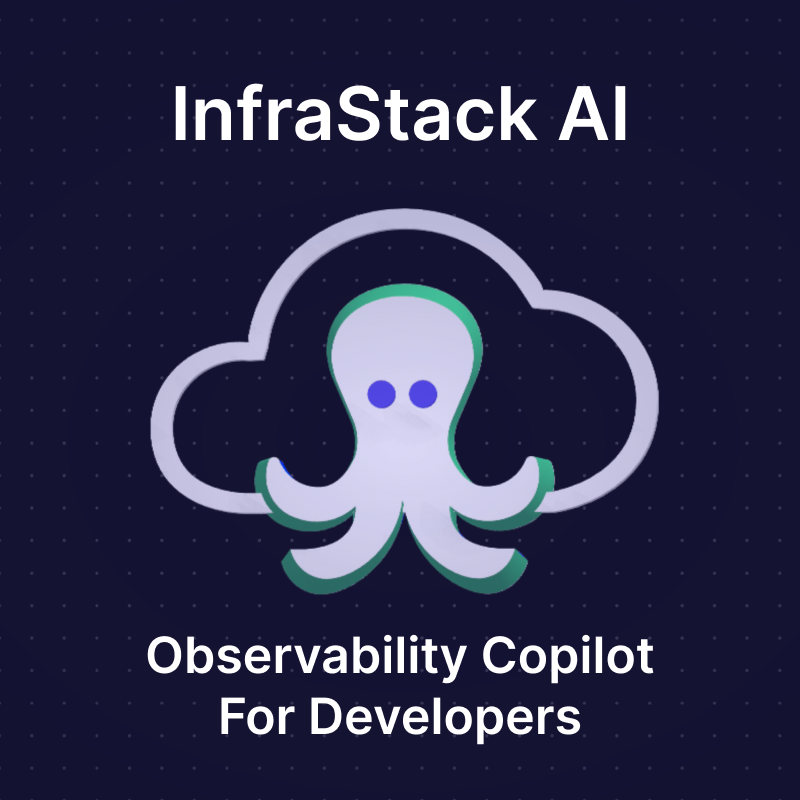
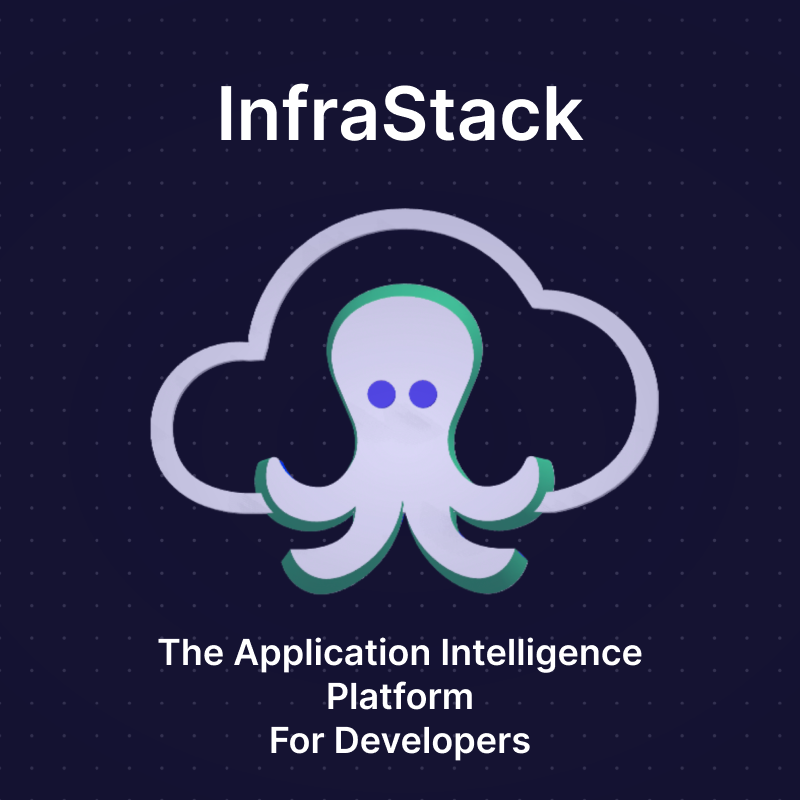
new messaging

Changed region(s): [[0.1875, 0.7812, 0.8125, 0.9688], [0.2188, 0.0938, 0.7812, 0.1875]]

diff --git a/website/app/page.tsx b/website/app/page.tsx
@@ -30,6 +30,8 @@ import { Separator } from "@/components/ui/separator"
 import GetDemoButton from "@/components/get-demo"
 import { use, useEffect, useRef } from "react"
 
+import TypedHeader from "@/components/typed"
+
 
 const customers = [
   // {
@@ -281,13 +283,12 @@ export function register() {
     <div className="container relative">
       <PageHeader className="relative dark:bg-dot-white/[0.2] bg-dot-black/[0.2] rounded-full">
         <div className="absolute pointer-events-none inset-0 flex items-center justify-center dark:bg-zinc-950 bg-white [mask-image:radial-gradient(ellipse_at_center,transparent_1%,#09090b)]"></div>
-        {/* <Announcement /> */}
+        <Announcement />
         {/* <iframe className="bg-transparent h-60" src='https://my.spline.design/untitled-7aa2af24d18f7d296b43cefbb501a930/' frameborder='0' width='100%' height='100%'></iframe>        <Announcement /> */}
         <div className="top-20 blur-3xl bg-indigo-500/30 h-32 w-52 absolute"></div>
-        <PageHeaderHeading className="z-[60] text-zinc-200 mt-4 ">AI-Powered Application Intelligence Platform</PageHeaderHeading>
-        <PageHeaderDescription className="z-[60] text-lg md:text-2xl font-semibold mt-2 text-center text-zinc-200">
-          <p className="hidden md:block ">Understand Application Behaviors & User Journeys Instantly.</p>
-          <p className="md:hidden">Understand Application Behaviors & User Journeys Instantly.</p>
+        <PageHeaderHeading className="z-[60] text-zinc-200 mt-4 ">InfraStack is <br/>Datadog + PostHog + GPT <br/> for <TypedHeader /> Developers</PageHeaderHeading>
+        <PageHeaderDescription className="z-[60] text-lg md:text-2xl font-semibold mt-2 text-center text-zinc-400">
+          <p className="hidden md:block ">A real-time view of application insights and user behavior, intelligently corralated, beautifully visualized.</p>
         </PageHeaderDescription>
         <PageActions className="mt-2 items-start">
           {/* <Link href="/docs" className={cn(buttonVariants())}>
@@ -313,7 +314,7 @@ export function register() {
               variant={"outline"}
               className={cn("text-white dark:hover:bg-indigo-800 bg-indigo-600 dark:md:text-lg border-zinc-800 dark:border-[1px] dark:border-solid z-50 h-[56px] w-[180px] md:w-[220px] rounded-lg")}
             >Get Started Free</Button>
-            <p className="text-muted-foreground text-sm">No credit card required</p>
+            <p className="text-muted-foreground text-zinc-300">No credit card required</p>
           </Link>
           {/* <Link
             target="_blank"
@@ -361,7 +362,7 @@ export function register() {
             {/* <div className=" shadow-inner rounded-xl px-4 text-center p-2 pl-4 pr-4 text-2xl"><span className="text-green-400 text-4xl font-bold">200M+ <BarChart4 className="h-10 w-10 inline" /></span><br></br>Traces Proceessed</div>
             <div className=" shadow-inner rounded-xl px-4 text-center p-2 pl-4 pr-4 text-2xl"><span className="text-green-400 text-4xl font-bold">1K+ Human Hours <Sparkles className="h-10 w-10 inline" /></span><br></br>Saved by InfraStack AI Copilots</div> */}
             {/* <div className="text text-3xl md:text-5xl p-2 mt- font-bold bg-gradient-to-r from-[#5865F2] to-green-400 inline-block text-transparent bg-clip-text z-[60]">Loved By Next-Gen Developers</div> */}
-            <div className="text text-[26px] md:text-5xl p-2 mt- font-semibold bg-gradient-to-r from-[#5865F2] to-green-400 inline-block text-transparent bg-clip-text z-[60]">Loved By Modern Teams <br></br>and Developers</div>
+            <div className="text text-[26px] md:text-5xl p-2 mt- font-semibold bg-gradient-to-r from-[#5865F2] to-green-400 inline-block text-transparent bg-clip-text z-[60]">Loved By Modern Teams</div>
 
           </div>
         </div>
@@ -516,7 +517,7 @@ export function register() {
       </div>
 
       <div className="w-full text-center text-[28px] md:text-5xl font-bold text-zinc-200 mt-16 md:mt-40">
-        <p className="">Supercharge Your Developers<br></br>with Intelligent Tooling</p>
+        <p className="">Supercharge Your Developers<br></br>with Smart Tooling</p>
       </div>
 
       <div className="relative container w-fit  gap-x-6 gap-y-4 grid grid-cols-1 md:grid-cols-2  lg:grid-cols-2 xl:grid-cols-3  py-10">
@@ -623,12 +624,12 @@ export function register() {
           speed="slow"
         /> */}
 
-      {false && <div className="w-full text-center mt-32  md:mt-24">
+      {<div className="w-full text-center mt-32  md:mt-24">
         <p className="text-[26px] md:text-5xl font-semibold text-zinc-200">Built on Open Source <br></br>& Open Standards</p>
         <p className="text-zinc-500 mt-2 md:text-lg">Have full ownership and control of your telemetry data</p>
       </div>}
 
-      {false && <div className="container w-fit max-w-[800px] gap-x-5 gap-y-4 md:gap-y-0 grid grid-cols-1 md:grid-cols-2  lg:grid-cols-2  py-10">
+      {<div className="container w-fit max-w-[800px] gap-x-5 gap-y-4 md:gap-y-0 grid grid-cols-1 md:grid-cols-2  lg:grid-cols-2  py-10">
         <div className="md:h-72 border border-zinc-800 rounded-xl p-6 shadow-inner  shadow-zinc-900">
           <Image src="/images/integrations/otel_avatar.svg" alt="InfraStack AI OpenTelemetry" width={40} height={40} />
 

diff --git a/website/components/announcement.tsx b/website/components/announcement.tsx
@@ -10,17 +10,20 @@ export function Announcement() {
       // href="#"
       className="z-[60] inline-flex items-center justify-center border dark:border-zinc-800 rounded-lg  px-3 py-1 text-xs  md:text-sm font-medium"
     >
-      🎉 
+      {<span className="relative flex h-3 w-3">
+        {<span className={`animate-ping absolute inline-flex h-full w-full rounded-full bg-green-400 opacity-75`}></span>}
+        {<span className="relative inline-flex rounded-full h-3 w-3 bg-green-500"></span>}
+      </span>}
       {/* <span className="sm:hidden">New components and more.</span> */}
-      <span className="ml-2">Announcement</span>
-      <Separator className="mx-2 h-4 w-[1px] border-zinc-800" orientation="vertical" />{" "}
-      <span className="inline">
-         We&apos;ve launched
+      <span className="ml-3">Events Processed Last 30 Days: </span>
+      {/* <Separator className="mx-2 h-4 w-[1px] border-zinc-800" orientation="vertical" />{" "} */}
+      <span className="inline ml-2 text-green-500">
+        500M+
       </span>
       {/* <Separator className="mx-2 h-4 w-[1px] border-zinc-800" orientation="vertical" />{" "} */}
 
       {/* <div className="p-0  pr-2  text-[12px] rounded-xl text-yellow-500">Closed Beta</div> */}
-        
+
       {/* <ArrowRightIcon className="ml-1 h-4 w-4" /> */}
     </div>
   )

diff --git a/website/components/mobile-nav.tsx b/website/components/mobile-nav.tsx
@@ -86,13 +86,13 @@ export function MobileNav() {
           >
             For Enterprise
           </MobileLink> */}
-          <MobileLink
+          {/* <MobileLink
             key={"/pricing"}
             href={"/pricing"}
             onOpenChange={setOpen}
           >
             Pricing
-          </MobileLink>
+          </MobileLink> */}
           <MobileLink
             key={"/docs"}
             href={"https://docs.infrastack.ai"}
@@ -114,13 +114,13 @@ export function MobileNav() {
           >
             Careers
           </MobileLink>
-          <MobileLink
+          {/* <MobileLink
             key={"blog"}
             href={"https://docs.infrastack.ai/blog"}
             onOpenChange={setOpen}
           >
             Blog
-          </MobileLink>
+          </MobileLink> */}
         </div>
         {/* <ScrollArea className="my-4 h-[calc(100vh-8rem)] pb-10 pl-6">
           <div className="flex flex-col space-y-3">

diff --git a/website/config/site.ts b/website/config/site.ts
@@ -1,10 +1,10 @@
 export const siteConfig = {
-    name: "InfraStack AI",
+    name: "InfraStack",
     url: "https://infrastack.ai",
     ogImage: "/preview.png",
-    title: "InfraStack AI | Application Observability Copilot for Developers.",
+    title: "InfraStack AI | The Application Intelligence Platform for Developers",
     description:
-      "AI-First Application & Infrastructure Observability Platform Empowering Developers and Modern Dev Teams Throughout Their Development and Deployment Journey.",
+      "InfraStack is the application intelligence platform for developers to understand application behaviors and user journeys instantly. Get started for free!",
     links: {
       twitter: "https://twitter.com/infrastackai",
       github: "https://github.com/infrastackai",

diff --git a/docs/components/header-logo.jsx b/docs/components/header-logo.jsx
@@ -4,10 +4,10 @@ export default function HeaderLogo() {
   return (
     <span
       className="font-bold select-none"
-      title={`InfraStack AI`}
+      title={`InfraStack`}
     >
       <IconInfraStackOctopusDark className="h-8 w-8 inline mr-2 fill-indigo-600 dark:fill-white text-white dark:text-zinc-800" />
-      InfraStack AI
+      InfraStack
     </span>
   );
 }
